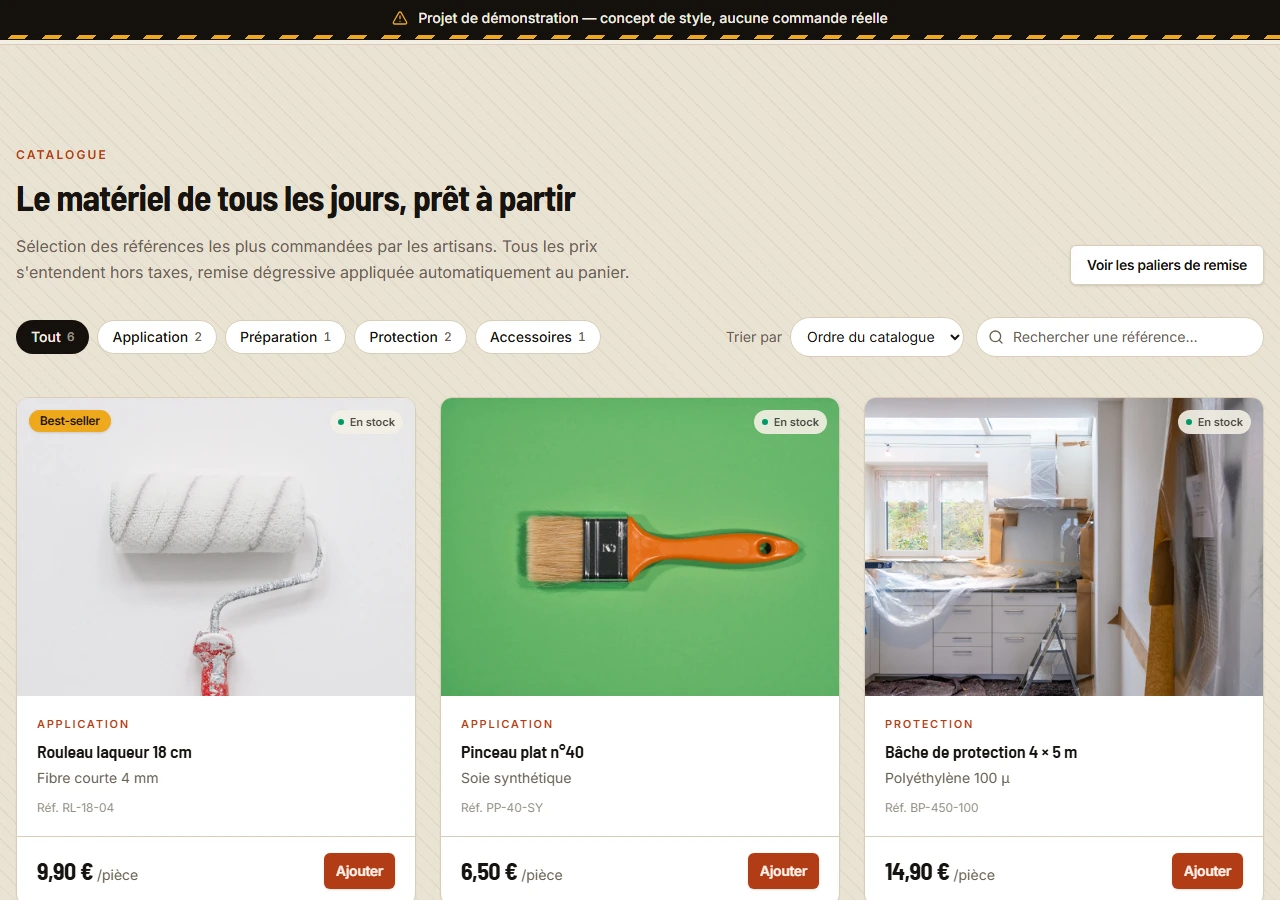
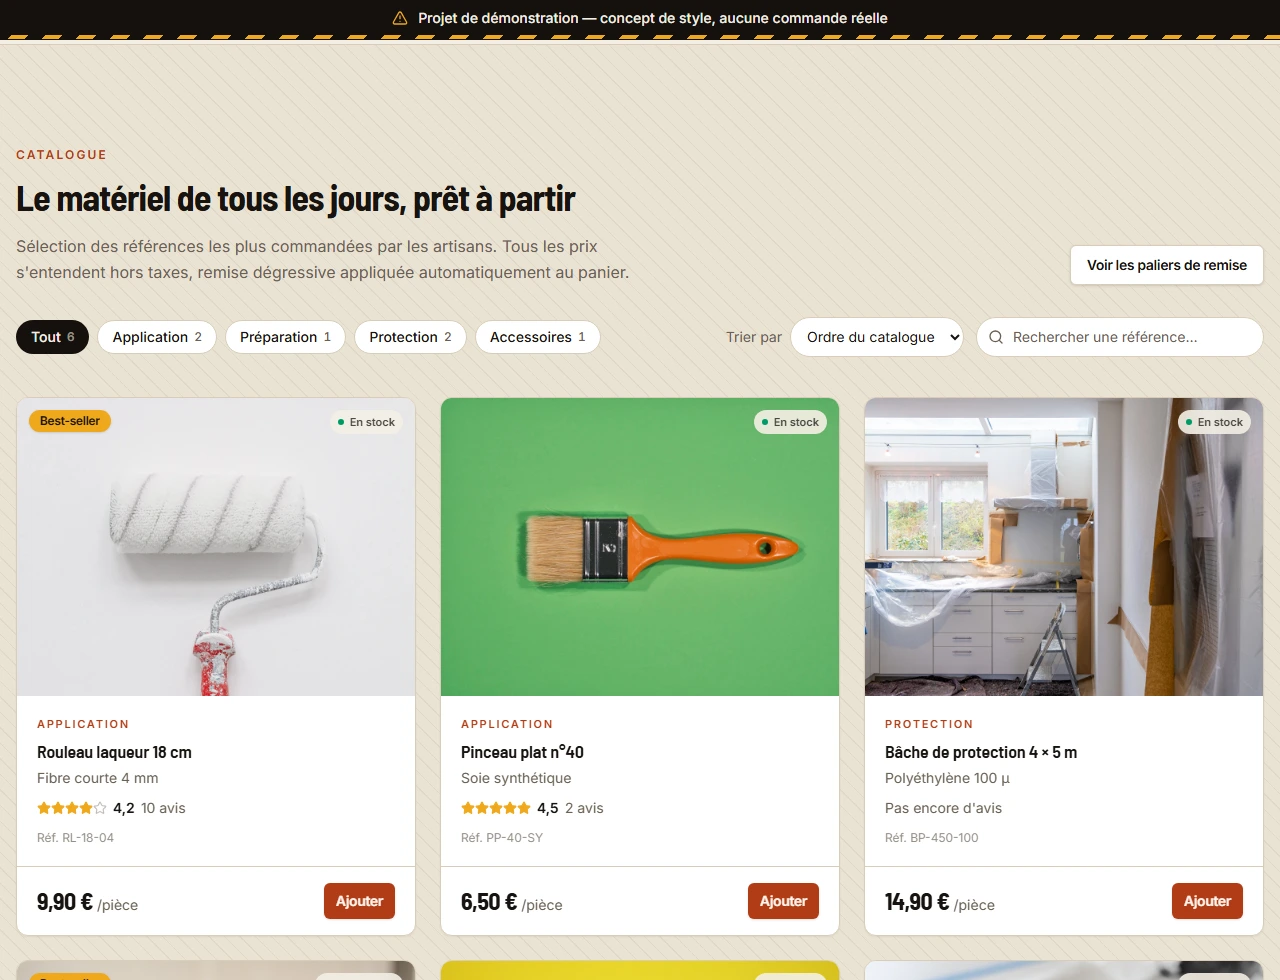
Porte la note des avis sur les cartes du catalogue
Le travail sur les avis ne se voyait que depuis la fiche produit : la
vitrine, elle, ignorait qu'ils existaient. Les cartes affichent la moyenne
et le nombre d'avis, et le catalogue se trie par « Mieux notés ».

Une référence sans avis l'écrit plutôt que d'afficher un « 0 avis » qui
ressemblerait à une mauvaise note, et passe derrière les notées au tri. À
moyenne égale, le plus grand nombre d'avis l'emporte.

Au passage, useTri validait l'URL contre une liste recopiée : ?tri=note-desc
retombait en silence sur l'ordre du catalogue. La validation se fait
maintenant contre TRIS, avec un test par option.

diff --git a/src/components/ui/product-card.tsx b/src/components/ui/product-card.tsx
@@ -1,6 +1,7 @@
 import * as React from "react"
 
 import { asset, cn, formatPrix } from "@/lib/utils"
+import { Etoiles } from "@/components/Etoiles"
 import { Badge } from "@/components/ui/badge"
 import { Button } from "@/components/ui/button"
 
@@ -10,7 +11,7 @@ import { Button } from "@/components/ui/button"
  *
  * Modifications : formatage roupies → euros (`formatPrix`, locale fr-FR), prix
  * barré / texte d'offre remplacés par le prix à l'unité, la référence et l'état
- * de stock, ajout d'un bouton d'ajout au panier. Le `whileHover` framer-motion
+ * de stock, ajout d'un bouton d'ajout au panier et de la note moyenne. Le `whileHover` framer-motion
  * d'origine est rendu en transition CSS. La photo passe en pleine largeur au
  * lieu d'être contenue avec marge : c'est ce qui donne l'allure de vitrine dans
  * les previews du catalogue.
@@ -27,6 +28,9 @@ export interface ProductCardProps
   reference: string
   categorie: string
   enStock: boolean
+  /** Moyenne des avis, `null` quand la référence n'en a aucun. */
+  note?: number | null
+  nombreAvis?: number
   badge?: string
   onAjouter?: () => void
   /** Lien vers la fiche produit : vrai `href`, pour garder clic droit et
@@ -48,6 +52,8 @@ const ProductCard = React.forwardRef<HTMLDivElement, ProductCardProps>(
       reference,
       categorie,
       enStock,
+      note = null,
+      nombreAvis = 0,
       badge,
       onAjouter,
       href,
@@ -118,6 +124,25 @@ const ProductCard = React.forwardRef<HTMLDivElement, ProductCardProps>(
             </a>
           </h3>
           <p className="mt-1 text-sm text-muted-foreground">{detail}</p>
+          {/* Une phrase plutôt qu'un « 0 avis » : le chiffre ressemblerait à
+              une mauvaise note, alors que la référence n'a rien reçu. Même
+              formulation que sur la fiche produit. */}
+          {note === null ? (
+            <p className="mt-2.5 text-sm text-muted-foreground">
+              Pas encore d'avis
+            </p>
+          ) : (
+            <p className="mt-2.5 flex items-center gap-1.5 text-sm">
+              <Etoiles note={note} taille="petite" muet />
+              <span className="font-semibold tabular-nums">
+                {note.toLocaleString("fr-FR")}
+              </span>
+              <span className="text-muted-foreground">
+                <span className="sr-only">{" sur 5, "}</span>
+                {nombreAvis} avis
+              </span>
+            </p>
+          )}
           <p className="mt-auto pt-3 text-xs text-muted-foreground/70">
             Réf. {reference}
           </p>

diff --git a/src/components/sections/GrilleProduits.tsx b/src/components/sections/GrilleProduits.tsx
@@ -3,6 +3,7 @@ import { Search, X } from "lucide-react"
 
 import { Button } from "@/components/ui/button"
 import { ProductCard } from "@/components/ui/product-card"
+import { avisPour, noteMoyenne } from "@/data/avis"
 import { categories, produits, type Produit } from "@/data/produits"
 import { usePanier } from "@/panier/PanierContext"
 import {
@@ -69,9 +70,23 @@ export function GrilleProduits() {
   const visibles =
     tri === "catalogue"
       ? correspondants
-      : [...correspondants].sort((a, b) =>
-          tri === "prix-asc" ? a.prix - b.prix : b.prix - a.prix,
-        )
+      : [...correspondants].sort((a, b) => {
+          if (tri === "prix-asc") return a.prix - b.prix
+          if (tri === "prix-desc") return b.prix - a.prix
+          /*
+           * Une référence sans avis passe derrière les notées : la ranger
+           * comme un zéro la ferait passer pour mal notée, la ranger comme un
+           * cinq la mettrait en tête sans rien avoir prouvé. À égalité, le
+           * plus grand nombre d'avis l'emporte — une moyenne tirée de dix
+           * retours pèse plus lourd que la même tirée de deux.
+           */
+          const na = noteMoyenne(a.id)
+          const nb = noteMoyenne(b.id)
+          if (na === null || nb === null) {
+            return na === nb ? 0 : na === null ? 1 : -1
+          }
+          return nb - na || avisPour(b.id).length - avisPour(a.id).length
+        })
 
   return (
     <section
@@ -214,6 +229,8 @@ export function GrilleProduits() {
                 reference={produit.reference}
                 categorie={produit.categorie}
                 enStock={produit.stock === "en-stock"}
+                note={noteMoyenne(produit.id)}
+                nombreAvis={avisPour(produit.id).length}
                 badge={produit.populaire ? "Best-seller" : undefined}
                 onAjouter={() => ajouter(produit)}
                 href={lienProduit(produit.id)}

diff --git a/src/lib/navigation.ts b/src/lib/navigation.ts
@@ -26,13 +26,14 @@ export function lienAccueil() {
  * qu'un lien ouvert à froid défile jusqu'à la grille — voir
  * `useDefilementVersAncre`.
  */
-export type Tri = "catalogue" | "prix-asc" | "prix-desc"
+export type Tri = "catalogue" | "prix-asc" | "prix-desc" | "note-desc"
 
 /** `catalogue` est l'ordre par défaut : il n'apparaît pas dans l'URL. */
 export const TRIS: { valeur: Tri; libelle: string }[] = [
   { valeur: "catalogue", libelle: "Ordre du catalogue" },
   { valeur: "prix-asc", libelle: "Prix croissant" },
   { valeur: "prix-desc", libelle: "Prix décroissant" },
+  { valeur: "note-desc", libelle: "Mieux notés" },
 ]
 
 export function urlCatalogue({
@@ -114,11 +115,20 @@ export function useCategorieAffichee(): string | null {
   return new URLSearchParams(parametres).get("categorie")
 }
 
+/**
+ * Lit un tri depuis l'URL. Validé contre `TRIS` et non contre une liste
+ * recopiée : ajouter une option sans repasser ici laisserait l'URL comprise à
+ * moitié — c'est exactement ce qui est arrivé au tri par note. Une valeur
+ * inconnue retombe sur l'ordre par défaut plutôt que de casser.
+ */
+export function triDepuis(valeur: string | null): Tri {
+  const connu = TRIS.find((option) => option.valeur === valeur)
+  return connu ? connu.valeur : "catalogue"
+}
+
 export function useTri(): Tri {
   const parametres = React.useSyncExternalStore(souscrire, instantane, () => "")
-  const valeur = new URLSearchParams(parametres).get("tri")
-  // Une valeur inconnue retombe sur l'ordre par défaut plutôt que de casser.
-  return valeur === "prix-asc" || valeur === "prix-desc" ? valeur : "catalogue"
+  return triDepuis(new URLSearchParams(parametres).get("tri"))
 }
 
 /** Terme de recherche présent dans l'URL au chargement. */

diff --git a/src/lib/navigation.test.ts b/src/lib/navigation.test.ts
@@ -1,6 +1,12 @@
 import { describe, expect, it } from "vitest"
 
-import { lienCategorie, lienProduit, urlCatalogue } from "@/lib/navigation"
+import {
+  lienCategorie,
+  lienProduit,
+  triDepuis,
+  TRIS,
+  urlCatalogue,
+} from "@/lib/navigation"
 
 /*
  * L'URL est l'état partageable du site : ce qui compte ici est qu'elle reste
@@ -63,5 +69,34 @@ describe("lienCategorie", () => {
 
   it("revient au catalogue entier avec `null`", () => {
     expect(lienCategorie(null)).toBe("/#catalogue")
+  })
+})
+
+describe("le tri du catalogue", () => {
+  it("expose chaque valeur du type une fois, l'ordre par défaut en tête", () => {
+    expect(TRIS.map((o) => o.valeur)).toEqual([
+      "catalogue",
+      "prix-asc",
+      "prix-desc",
+      "note-desc",
+    ])
+  })
+
+  it("porte le tri par note dans l'URL comme les autres", () => {
+    expect(urlCatalogue({ tri: "note-desc" })).toBe("/?tri=note-desc#catalogue")
+  })
+})
+
+describe("triDepuis", () => {
+  it("accepte toutes les valeurs proposées à l'écran", () => {
+    for (const option of TRIS) {
+      expect(triDepuis(option.valeur)).toBe(option.valeur)
+    }
+  })
+
+  it("retombe sur l'ordre du catalogue pour une valeur inconnue ou absente", () => {
+    expect(triDepuis(null)).toBe("catalogue")
+    expect(triDepuis("")).toBe("catalogue")
+    expect(triDepuis("prix-croissant")).toBe("catalogue")
   })
 })

diff --git a/README.md b/README.md
@@ -15,10 +15,11 @@ Le hero et sa barre de navigation. Le panneau charbon et l'encoche claire du
 header donnent le contraste ; les quatre vignettes de catégories suivent juste
 en dessous.
 
-![Grille produits : six cartes avec photo en 4:3, badge best-seller, pastille de stock, prix à l'unité](docs/captures/02-catalogue.webp)
+![Grille produits : six cartes avec photo en 4:3, badge best-seller, pastille de stock, note moyenne et prix à l'unité](docs/captures/02-catalogue.webp)
 
 Le catalogue, sa recherche, son tri et ses filtres par catégorie. Chaque carte
-porte sa photo en plein cadre, son état de stock, sa référence et son prix à l'unité.
+porte sa photo en plein cadre, son état de stock, sa note moyenne, sa référence
+et son prix à l'unité.
 
 ![Fiche produit : grande photo, prix, sélecteur de quantité et tableau du prix unitaire à chaque palier](docs/captures/06-produit.webp)
 
@@ -111,6 +112,25 @@ l'affichage. L'état du panier est un `useReducer` exposé par
 Le panneau annonce en continu ce qui manque pour le palier suivant, et la
 section tarifs marque « Votre palier » sur celui qui s'applique. Le bouton
 « Commander » est volontairement désactivé : il n'y a ni back-end ni paiement.
+
+## La note sur les cartes
+
+Le travail sur les avis ne se voyait que sur la fiche produit ; la vitrine
+l'ignorait. Chaque carte du catalogue porte donc sa note moyenne et son nombre
+d'avis, et le catalogue se trie par « Mieux notés ».
+
+Une référence sans avis affiche « Pas encore d'avis » plutôt qu'un « 0 avis »
+qui ressemblerait à une mauvaise note — même formulation que sur la fiche. Au
+tri, elle passe derrière les notées : la ranger comme un zéro la ferait passer
+pour mauvaise, la ranger comme un cinq la mettrait en tête sans rien avoir
+prouvé. À égalité de moyenne, le plus grand nombre d'avis l'emporte : 4,5 sur
+dix retours pèse plus lourd que 4,5 sur deux.
+
+Ce tri a révélé un défaut : `useTri` validait l'URL contre une liste de
+valeurs recopiée à la main, si bien que `?tri=note-desc` retombait
+silencieusement sur l'ordre du catalogue. La validation se fait maintenant
+contre `TRIS`, la liste même des options affichées, et un test le vérifie
+pour chacune.
 
 ## Les avis
 
